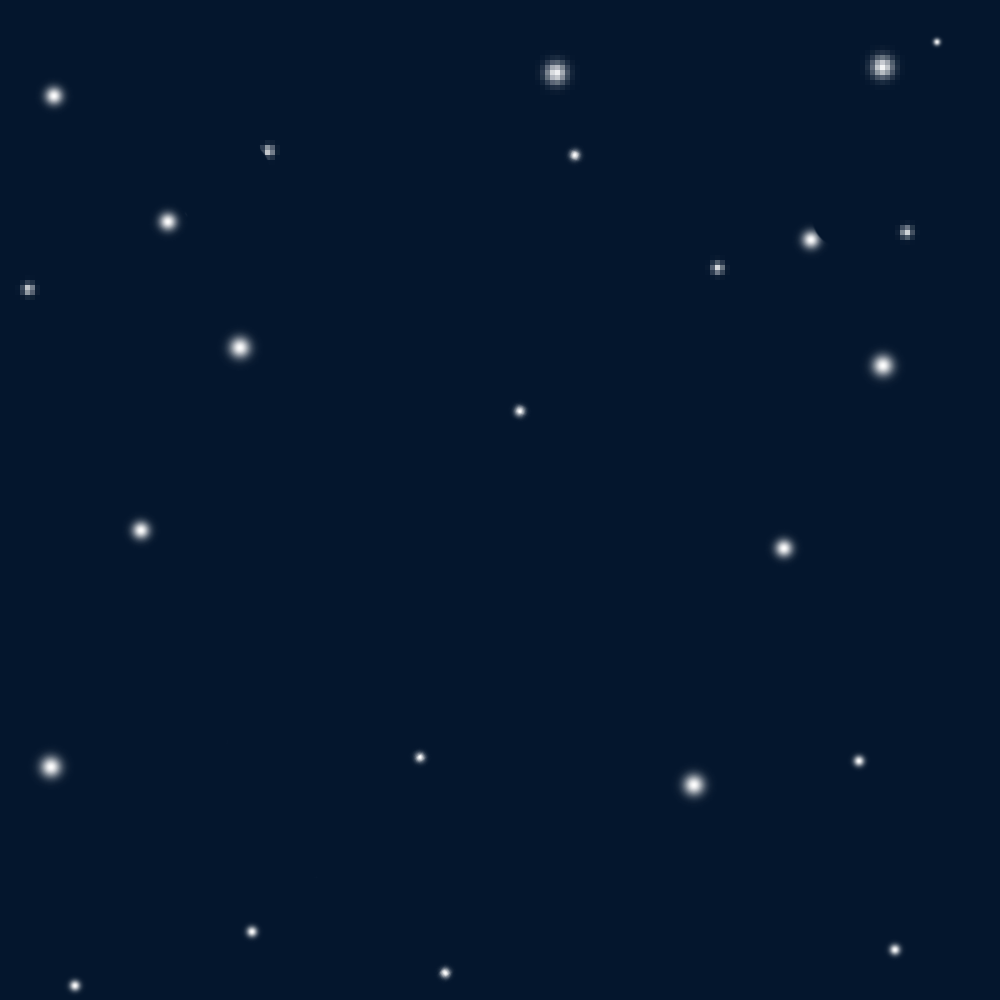
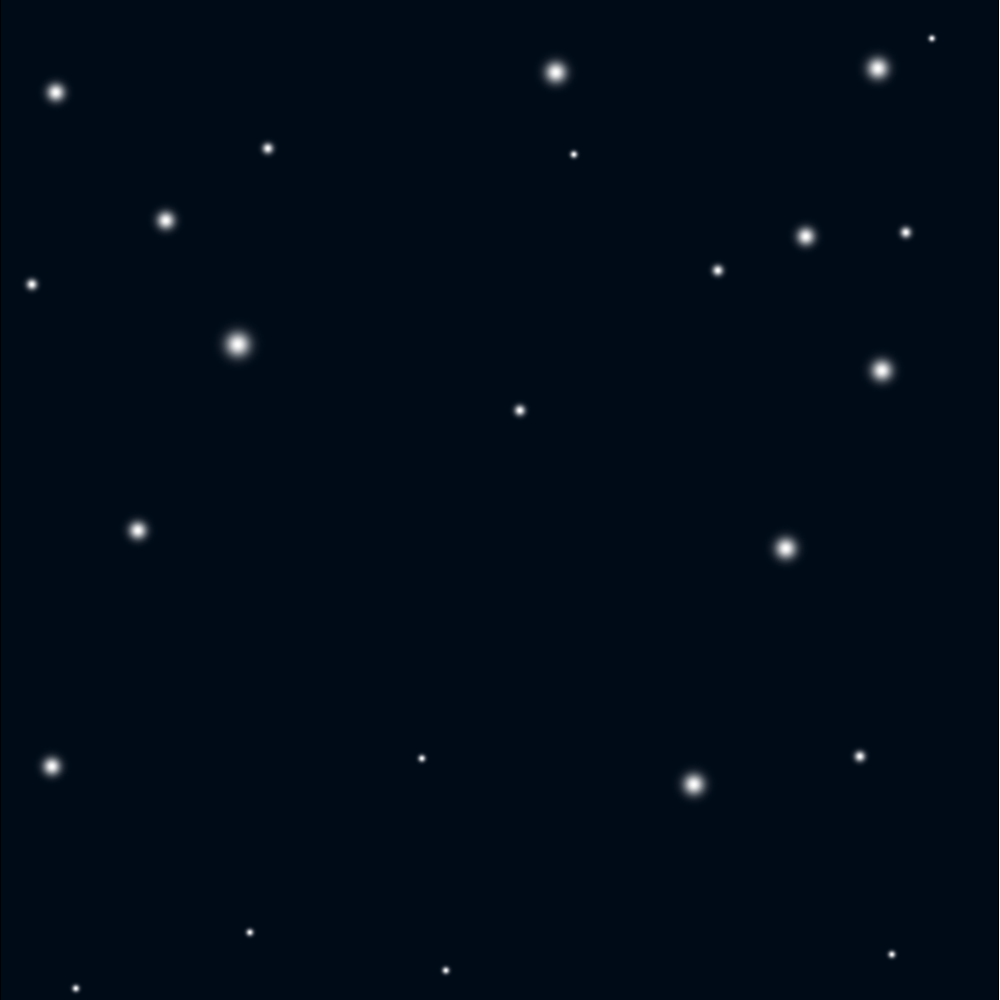
Changed the look of the bridge to incorperate more of a pastel purple look. Also created some functions to fill the star tiles differently. Also changed the 'space' colour from blue to black.

diff --git a/source/core/src/main/com/deco2800/game/areas/terrain/TerrainFactory.java b/source/core/src/main/com/deco2800/game/areas/terrain/TerrainFactory.java
@@ -64,19 +64,35 @@ public class TerrainFactory {
     ResourceService resourceService = ServiceLocator.getResourceService();
     switch (terrainType) {
       case RAINBOW_BRIDGE:
-        TextureRegion star =
-                new TextureRegion(resourceService.getAsset("images/terrain/star.png", Texture.class));
+        TextureRegion starBlank =
+                new TextureRegion(resourceService.getAsset("images/terrain/star-blank.png", Texture.class));
+        TextureRegion star1 =
+                new TextureRegion(resourceService.getAsset("images/terrain/star-1.png", Texture.class));
+        TextureRegion star2 =
+                new TextureRegion(resourceService.getAsset("images/terrain/star-2.png", Texture.class));
+        TextureRegion star3 =
+                new TextureRegion(resourceService.getAsset("images/terrain/star-3.png", Texture.class));
+
+        ArrayList<TextureRegion> stars = new ArrayList<>();
+        for (int i = 0; i < 18; i++) {
+          stars.add(starBlank);
+      }
+
+        stars.add(star1);
+        stars.add(star2);
+        stars.add(star3);
+
         TextureRegion water =
                 new TextureRegion(resourceService.getAsset("images/terrain/water.png", Texture.class));
-        TextureRegion red =
-                new TextureRegion(resourceService.getAsset("images/terrain/red.png", Texture.class));
-        TextureRegion blue =
-                new TextureRegion(resourceService.getAsset("images/terrain/blue.png", Texture.class));
-        TextureRegion green =
-                new TextureRegion(resourceService.getAsset("images/terrain/green.png", Texture.class));
-        TextureRegion purple =
-                new TextureRegion(resourceService.getAsset("images/terrain/purple.png", Texture.class));
-        return createRainbowBridgeTerrain(0.5f, star, water, red, blue, green, purple);
+        TextureRegion color1 =
+                new TextureRegion(resourceService.getAsset("images/terrain/color-1.png", Texture.class));
+        TextureRegion color2 =
+                new TextureRegion(resourceService.getAsset("images/terrain/color-2.png", Texture.class));
+        TextureRegion color3 =
+                new TextureRegion(resourceService.getAsset("images/terrain/color-3.png", Texture.class));
+        TextureRegion color4 =
+                new TextureRegion(resourceService.getAsset("images/terrain/color-4.png", Texture.class));
+        return createRainbowBridgeTerrain(0.5f, stars, water, color1, color2, color3, color4);
 
       case FOREST_DEMO:
         TextureRegion orthoGrass =
@@ -117,14 +133,14 @@ public class TerrainFactory {
 
   private TerrainComponent createRainbowBridgeTerrain(
           float tileWorldSize,
-          TextureRegion star,
+          ArrayList<TextureRegion> stars,
           TextureRegion water,
-          TextureRegion red,
-          TextureRegion blue,
-          TextureRegion green,
-          TextureRegion purple
+          TextureRegion color1,
+          TextureRegion color2,
+          TextureRegion color3,
+          TextureRegion color4
   ) {
-    GridPoint2 tilePixelSize = new GridPoint2(star.getRegionWidth(), star.getRegionHeight());
+    GridPoint2 tilePixelSize = new GridPoint2(stars.get(1).getRegionWidth(), stars.get(1).getRegionHeight());
 
     // Magic numbers, need to be set in a config file in future
     // offset - y coordinate to start drawing the bridge
@@ -139,12 +155,12 @@ public class TerrainFactory {
             offset,
             width,
             laneCount,
-            star,
+            stars,
             water,
-            red,
-            blue,
-            green,
-            purple
+            color1,
+            color2,
+            color3,
+            color4
     );
 
     TiledMapRenderer renderer = createRenderer(tiledMap, tileWorldSize / tilePixelSize.x);
@@ -188,30 +204,36 @@ public class TerrainFactory {
           int offset,
           int width,
           int laneCount,
-          TextureRegion star,
+          ArrayList<TextureRegion> stars,
           TextureRegion water,
-          TextureRegion red,
-          TextureRegion blue,
-          TextureRegion green,
-          TextureRegion purple
+          TextureRegion color1,
+          TextureRegion color2,
+          TextureRegion color3,
+          TextureRegion color4
 
   ) {
     TiledMap tiledMap = new TiledMap();
-    TerrainTile starTile = new TerrainTile(star);
-    TerrainTile waterTile = new TerrainTile(water);
+//    TerrainTile starTile = new TerrainTile(star);
+    ArrayList<TerrainTile> starTiles = new ArrayList<>();
+    for (TextureRegion starTexture : stars) {
+        starTiles.add(new TerrainTile(starTexture));
+    }
+//    TerrainTile waterTile = new TerrainTile(water);
 
     // Places a coloured tile in a List
     List<TerrainTile> bridgeTileColours = new ArrayList<>();
-    bridgeTileColours.add(new TerrainTile(purple));
-    bridgeTileColours.add(new TerrainTile(blue));
-    bridgeTileColours.add(new TerrainTile(green));
-    bridgeTileColours.add(new TerrainTile(red));
+    bridgeTileColours.add(new TerrainTile(color4));
+    bridgeTileColours.add(new TerrainTile(color3));
+    bridgeTileColours.add(new TerrainTile(color2));
+    bridgeTileColours.add(new TerrainTile(color1));
 
     TiledMapTileLayer layer = new TiledMapTileLayer(MAP_SIZE.x, MAP_SIZE.y, tileSize.x, tileSize.y);
 
     // Create backdrop
-    fillTopHalfTiles(layer, MAP_SIZE, starTile);
-    fillBottomHalfTiles(layer, MAP_SIZE, waterTile);
+//    fillTopHalfTiles(layer, MAP_SIZE, starTile);
+//    fillBottomHalfTiles(layer, MAP_SIZE, starTile);
+    fillTopHalfTilesRandomly(layer, MAP_SIZE, starTiles);
+    fillBottomHalfTilesRandomly(layer, MAP_SIZE, starTiles);
 
     Bridge bridge = new Bridge(offset, width);
     for (int i = 0; i < laneCount; i++) {
@@ -257,6 +279,16 @@ public class TerrainFactory {
     }
   }
 
+  private static void fillTopHalfTiles(TiledMapTileLayer layer, GridPoint2 mapSize, TerrainTile tile) {
+    for (int x = 0; x < mapSize.x; x++) {
+      for (int y = mapSize.y / 2; y < mapSize.y; y++) {
+        Cell cell = new Cell();
+        cell.setTile(tile);
+        layer.setCell(x, y, cell);
+      }
+    }
+  }
+
   private static void fillBottomHalfTiles(TiledMapTileLayer layer, GridPoint2 mapSize, TerrainTile tile) {
     for (int x = 0; x < mapSize.x; x++) {
       for (int y = 0; y < mapSize.y / 2; y++) {
@@ -267,15 +299,31 @@ public class TerrainFactory {
     }
   }
 
-  private static void fillTopHalfTiles(TiledMapTileLayer layer, GridPoint2 mapSize, TerrainTile tile) {
+//  NEW METHOD
+  private static void fillTopHalfTilesRandomly(TiledMapTileLayer layer, GridPoint2 mapSize, ArrayList<TerrainTile> tiles) {
     for (int x = 0; x < mapSize.x; x++) {
       for (int y = mapSize.y / 2; y < mapSize.y; y++) {
         Cell cell = new Cell();
-        cell.setTile(tile);
+        int index = (int) (Math.random() * tiles.size());
+        cell.setTile(tiles.get(index));
         layer.setCell(x, y, cell);
       }
     }
   }
+
+//  NEW METHOD
+  private static void fillBottomHalfTilesRandomly(TiledMapTileLayer layer, GridPoint2 mapSize, ArrayList<TerrainTile> tiles) {
+    for (int x = 0; x < mapSize.x; x++) {
+      for (int y = 0; y < mapSize.y / 2; y++) {
+        Cell cell = new Cell();
+        int index = (int) (Math.random() * tiles.size());
+        cell.setTile(tiles.get(index));
+        layer.setCell(x, y, cell);
+      }
+    }
+  }
+
+
 
   /**
    * This enum should contain the different terrains in your game, e.g. forest, cave, home, all with

diff --git a/source/core/src/main/com/deco2800/game/areas/RainbowBridge.java b/source/core/src/main/com/deco2800/game/areas/RainbowBridge.java
@@ -19,12 +19,15 @@ public class RainbowBridge extends GameArea {
     private static final GridPoint2 PLAYER_SPAWN = new GridPoint2(10, 10);
     private static final float WALL_WIDTH = 0.1f;
     private static final String[] rainbowBridgeTextures = {
-            "images/terrain/star.png",
+            "images/terrain/star-blank.png",
+            "images/terrain/star-1.png",
+            "images/terrain/star-2.png",
+            "images/terrain/star-3.png",
             "images/terrain/water.png",
-            "images/terrain/red.png",
-            "images/terrain/blue.png",
-            "images/terrain/green.png",
-            "images/terrain/purple.png",
+            "images/terrain/color-1.png",
+            "images/terrain/color-2.png",
+            "images/terrain/color-3.png",
+            "images/terrain/color-4.png",
 
     };
 
